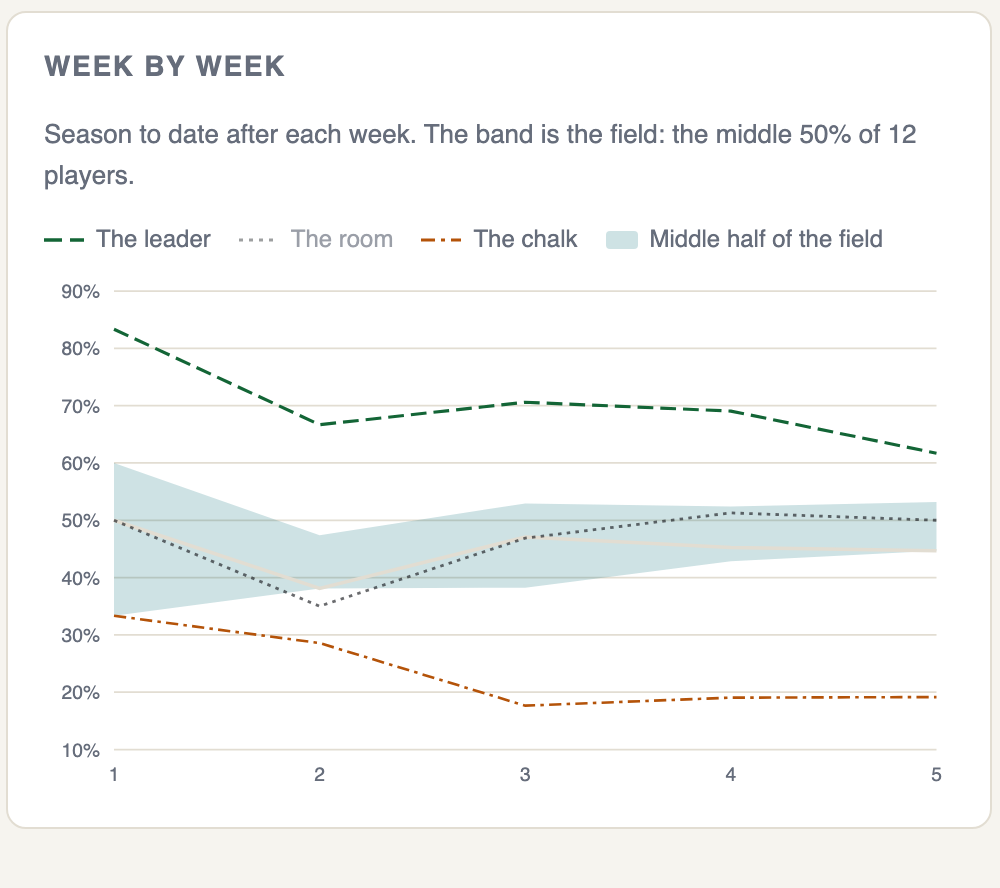
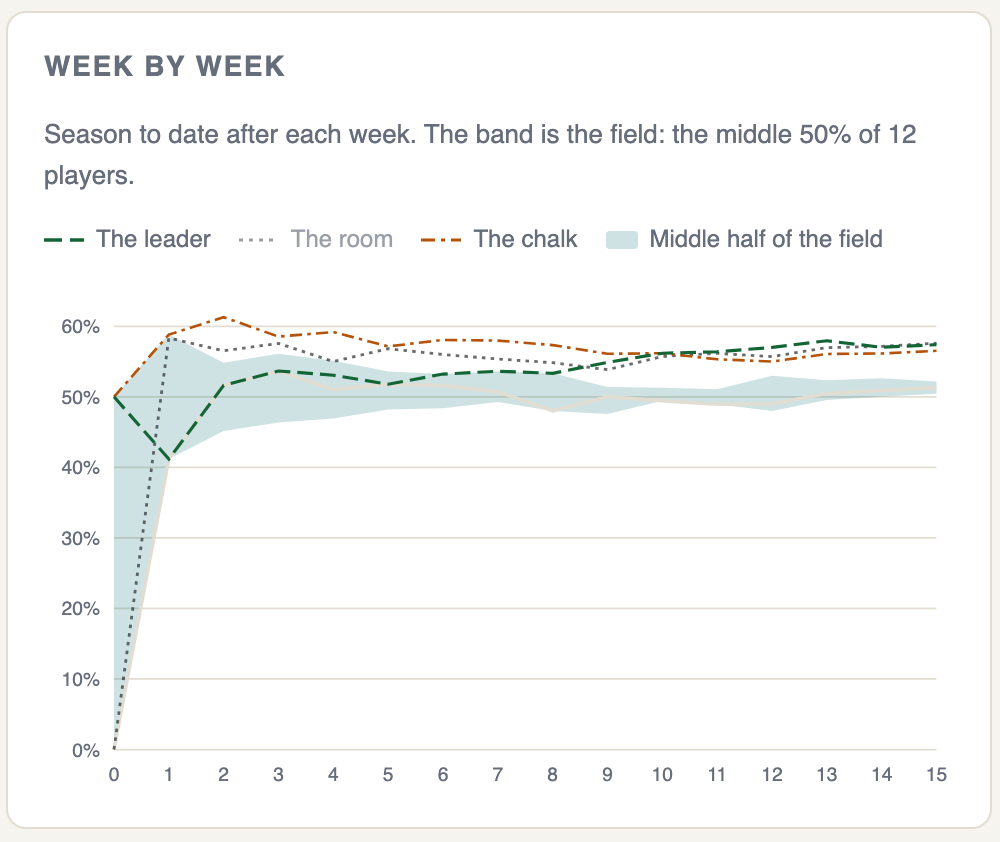
Shoot the teaser against a season that happened
The three pictures on the Coming Soon page are the whole argument it makes,
and two of them were arguing against it.

The slate was shot from seed-local.py: six games, all on a Tuesday, all at
three minutes past the hour, locking tomorrow. The board was shot from the
same seeder's invented finals, where the chalk went 19% and the room beat it
by thirty points — a thing that does not happen in football, and that anyone
who follows it reads instantly. Screenshots on a coming-soon page are the
evidence for every claim next to them; visibly fake ones are worse than none.

The slate is now the real 2026 week one — fifteen games, six with a line,
Colorado at Georgia Tech on the Thursday — which was available the whole time.

The board and the chart cannot be shot from real players, because there are
none yet, so they are shot from the real 2025 season instead: the committed
games, the committed closing lines, the real finals, graded by the real
scoring path. Twelve invented players read the number and lean on the
favourite by a trait that varies from 38% to 86%, and everything else follows.
The chalk on that board is the actual 2025 chalk, 56.5%. The names are the
only invented thing left.

Two defects the honest data exposed, both in the week-by-week chart:

  The axis made room for a band it never draws. Below twenty players the
  10th-to-90th area is deliberately not painted — with twelve players a decile
[…]

diff --git a/tiebreaker/site_pools/soon.html b/tiebreaker/site_pools/soon.html
@@ -450,16 +450,16 @@ tr.moved.down td { animation:flashdown 900ms ease-out }
 
 <div class=card>
   <div class=soonhero>
-    <span class=soonkick>Coming soon</span>
+    <span class=soonkick>Opens August 19</span>
     <h2>Pick every Big 12 game against the spread.</h2>
     <p>One line for everyone, frozen the moment the week is published. The
     whole slate locks at the first kickoff, and what you picked becomes public
     then &mdash; not before.</p>
-    <p class=soonwhen>Week one kicks off <b>Saturday, August 29</b>.</p>
+    <p class=soonwhen>Sign in from <b>Wednesday, August 19</b>. The first slate locks with the season opener, <b>Saturday, August 29</b>.</p>
   </div>
 </div>
 
-<div class=soonrow><figure class=soonshot><img src="shots/slate.png" width=1008 height=330 loading="lazy" decoding="async" alt="The Slate, from the pick&rsquo;em under construction."><figcaption><b>The Slate.</b> Every Big 12 game, one frozen line, and a clock. Pick a side and it saves as you go &mdash; there is no submit button to forget.</figcaption></figure><figure class=soonshot><img src="shots/chart.png" width=500 height=444 loading="lazy" decoding="async" alt="Week by week, from the pick&rsquo;em under construction."><figcaption><b>Week by week.</b> Your season against the shape of the field, drawn in your team's colours. <b>The chalk</b> is what taking every favourite would have scored, and it is harder to beat than it sounds.</figcaption></figure><figure class=soonshot><img src="shots/room.png" width=1008 height=209 loading="lazy" decoding="async" alt="The room, from the pick&rsquo;em under construction."><figcaption><b>The room.</b> What everybody else picked, on every game, scored as if one person had made all of it. Beating the field is one thing; beating the field put together is another.</figcaption></figure></div>
+<div class=soonrow><figure class=soonshot><img src="shots/slate.png" width=1008 height=312 loading="lazy" decoding="async" alt="The Slate, from the pick&rsquo;em under construction."><figcaption><b>The Slate.</b> Every Big 12 game, one frozen line, and a clock. Pick a side and it saves as you go &mdash; there is no submit button to forget.</figcaption></figure><figure class=soonshot><img src="shots/chart.png" width=500 height=444 loading="lazy" decoding="async" alt="Week by week, from the pick&rsquo;em under construction."><figcaption><b>Week by week.</b> Your season against the shape of the field, drawn in your team's colours. <b>The chalk</b> is what taking every favourite would have scored, and it is harder to beat than it sounds.</figcaption></figure><figure class=soonshot><img src="shots/room.png" width=1008 height=209 loading="lazy" decoding="async" alt="The room, from the pick&rsquo;em under construction."><figcaption><b>The room.</b> What everybody else picked, on every game, scored as if one person had made all of it. Beating the field is one thing; beating the field put together is another.</figcaption></figure></div>
 
 <div class=card>
   <h2>What makes it different</h2>

diff --git a/tiebreaker/site_pools/app.js b/tiebreaker/site_pools/app.js
@@ -1023,9 +1023,27 @@
     // half-width card put the axis labels at about seven pixels. At 520 the
     // box is drawn near 1:1 and 11px stays 11px.
     var W = 520, H = 300, L = 40, R = 10, T = 12, B = 26;
+
+    // A decile needs a field to be a decile of. With twelve players the
+    // "90th percentile" is the second-best player and the "10th" is the
+    // second-worst — one person each, drawn as though they were a
+    // distribution, and sitting exactly under the leader's line because the
+    // leader IS the player next to them. Below the floor only the quartiles
+    // are drawn, which are still three players in from each end.
+    //
+    // Decided BEFORE the axis, not after, because the axis has to be scaled
+    // to what is drawn. Including p10 and p90 unconditionally reserved room
+    // for a band that was never painted: a small pool whose worst player had
+    // a bad opening week got a plot squashed into its top third to make space
+    // for white.
+    var f = h.field || [];
+    var wide = f.length > 1 && f.every(function (r) { return r.n >= MIN_BAND; });
+
     var lo = 100, hi = 0;
     var all = [];
-    (h.field || []).forEach(function (f) { all.push(f.p10, f.p90); });
+    f.forEach(function (r) {
+      if (wide) { all.push(r.p10, r.p90); } else { all.push(r.p25, r.p75); }
+    });
     [h.you, h.room, h.chalk,
      h.leader && h.leader.rows].forEach(function (rows) {
       (rows || []).forEach(function (r) { all.push(r.pct); });
@@ -1095,14 +1113,6 @@
       svg.appendChild(t);
     });
 
-    var f = h.field || [];
-    // A decile needs a field to be a decile of. With twelve players the
-    // "90th percentile" is the second-best player and the "10th" is the
-    // second-worst — one person each, drawn as though they were a
-    // distribution, and sitting exactly under the leader's line because the
-    // leader IS the player next to them. Below the floor only the quartiles
-    // are drawn, which are still three players in from each end.
-    var wide = f.length > 1 && f.every(function (r) { return r.n >= MIN_BAND; });
     if (f.length > 1) {
       if (wide) {
         svg.appendChild(sv("path", {d: area(f, f, "p90", "p10"),
@@ -1270,7 +1280,13 @@
     box.appendChild(svg);
     box.appendChild(tip);
     if (note) {
-      var n = f.length ? f[f.length - 1].n : 0;
+      // The largest the field ever was, not the last week's. Somebody who
+      // misses the final week drops out of that week's percentiles, and
+      // reading the count off the end made a twelve-player pool describe
+      // itself as eleven — on a sentence whose whole job is to say how many
+      // people the band is drawn from.
+      var n = 0;
+      f.forEach(function (r) { if (r.n > n) n = r.n; });
       note.textContent = "Season to date after each week. The band is the "
         + "field: the middle 50% of " + n + " player" + (n === 1 ? "" : "s")
         + (wide ? ", and lighter behind it the 10th to 90th." : ".");

diff --git a/tiebreaker/site_pools/pickem/board.html b/tiebreaker/site_pools/pickem/board.html
@@ -399,7 +399,7 @@ tr.moved.down td { animation:flashdown 900ms ease-out }
 .bumpwrap .bteam:hover { opacity:1 }
 .bumpwrap .bteam:hover polyline { stroke-width:3.6 }
 </style>
-<script defer src="../../tiebreaker/scrollcue.js?v=5fef00f1"></script><link rel=stylesheet href="../styles.css?v=794ec8de"><script defer src="../../tiebreaker/pct.js?v=03186563"></script><script defer src="../app.js?v=61151855"></script></head><body>
+<script defer src="../../tiebreaker/scrollcue.js?v=5fef00f1"></script><link rel=stylesheet href="../styles.css?v=794ec8de"><script defer src="../../tiebreaker/pct.js?v=03186563"></script><script defer src="../app.js?v=ebbd92de"></script></head><body>
 <a class=skip-link href="#main">Skip to content</a>
 <nav class=b12-topbar><a class=b12-brand href="/" aria-label="Big12ology home"><picture><source srcset="../../tiebreaker/brand/big12ology-compact-dark.svg" media="(prefers-color-scheme: dark)"><img src="../../tiebreaker/brand/big12ology-compact-dark.svg" alt="Big12ology"></picture></a><a href="/tiebreaker/">Tiebreaker</a><a href="/schedule/">Schedule</a><a href="/attendance/">Attendance</a><a class=on href="/pools/">Pools</a><span class=b12-right><span class=b12-acct hidden></span><span class=b12-theme></span></span></nav>
 <header class=b12-head>

diff --git a/tiebreaker/site_pools/pickem/card.html b/tiebreaker/site_pools/pickem/card.html
@@ -389,7 +389,7 @@ tr.moved.down td { animation:flashdown 900ms ease-out }
 .bumpwrap .bteam:hover { opacity:1 }
 .bumpwrap .bteam:hover polyline { stroke-width:3.6 }
 </style>
-<script defer src="../../tiebreaker/scrollcue.js?v=5fef00f1"></script><link rel=stylesheet href="../styles.css?v=794ec8de"><script defer src="../../tiebreaker/pct.js?v=03186563"></script><script defer src="../app.js?v=61151855"></script></head><body>
+<script defer src="../../tiebreaker/scrollcue.js?v=5fef00f1"></script><link rel=stylesheet href="../styles.css?v=794ec8de"><script defer src="../../tiebreaker/pct.js?v=03186563"></script><script defer src="../app.js?v=ebbd92de"></script></head><body>
 <a class=skip-link href="#main">Skip to content</a>
 <nav class=b12-topbar><a class=b12-brand href="/" aria-label="Big12ology home"><picture><source srcset="../../tiebreaker/brand/big12ology-compact-dark.svg" media="(prefers-color-scheme: dark)"><img src="../../tiebreaker/brand/big12ology-compact-dark.svg" alt="Big12ology"></picture></a><a href="/tiebreaker/">Tiebreaker</a><a href="/schedule/">Schedule</a><a href="/attendance/">Attendance</a><a class=on href="/pools/">Pools</a><span class=b12-right><span class=b12-acct hidden></span><span class=b12-theme></span></span></nav>
 <header class=b12-head>

diff --git a/tiebreaker/site_pools/pickem/index.html b/tiebreaker/site_pools/pickem/index.html
@@ -399,7 +399,7 @@ tr.moved.down td { animation:flashdown 900ms ease-out }
 .bumpwrap .bteam:hover { opacity:1 }
 .bumpwrap .bteam:hover polyline { stroke-width:3.6 }
 </style>
-<script defer src="../../tiebreaker/scrollcue.js?v=5fef00f1"></script><link rel=stylesheet href="../styles.css?v=794ec8de"><script defer src="../../tiebreaker/pct.js?v=03186563"></script><script defer src="../app.js?v=61151855"></script></head><body>
+<script defer src="../../tiebreaker/scrollcue.js?v=5fef00f1"></script><link rel=stylesheet href="../styles.css?v=794ec8de"><script defer src="../../tiebreaker/pct.js?v=03186563"></script><script defer src="../app.js?v=ebbd92de"></script></head><body>
 <a class=skip-link href="#main">Skip to content</a>
 <nav class=b12-topbar><a class=b12-brand href="/" aria-label="Big12ology home"><picture><source srcset="../../tiebreaker/brand/big12ology-compact-dark.svg" media="(prefers-color-scheme: dark)"><img src="../../tiebreaker/brand/big12ology-compact-dark.svg" alt="Big12ology"></picture></a><a href="/tiebreaker/">Tiebreaker</a><a href="/schedule/">Schedule</a><a href="/attendance/">Attendance</a><a class=on href="/pools/">Pools</a><span class=b12-right><span class=b12-acct hidden></span><span class=b12-theme></span></span></nav>
 <header class=b12-head>

diff --git a/tiebreaker/site_pools/pickem/rules.html b/tiebreaker/site_pools/pickem/rules.html
@@ -399,7 +399,7 @@ tr.moved.down td { animation:flashdown 900ms ease-out }
 .bumpwrap .bteam:hover { opacity:1 }
 .bumpwrap .bteam:hover polyline { stroke-width:3.6 }
 </style>
-<script defer src="../../tiebreaker/scrollcue.js?v=5fef00f1"></script><link rel=stylesheet href="../styles.css?v=794ec8de"><script defer src="../../tiebreaker/pct.js?v=03186563"></script><script defer src="../app.js?v=61151855"></script></head><body>
+<script defer src="../../tiebreaker/scrollcue.js?v=5fef00f1"></script><link rel=stylesheet href="../styles.css?v=794ec8de"><script defer src="../../tiebreaker/pct.js?v=03186563"></script><script defer src="../app.js?v=ebbd92de"></script></head><body>
 <a class=skip-link href="#main">Skip to content</a>
 <nav class=b12-topbar><a class=b12-brand href="/" aria-label="Big12ology home"><picture><source srcset="../../tiebreaker/brand/big12ology-compact-dark.svg" media="(prefers-color-scheme: dark)"><img src="../../tiebreaker/brand/big12ology-compact-dark.svg" alt="Big12ology"></picture></a><a href="/tiebreaker/">Tiebreaker</a><a href="/schedule/">Schedule</a><a href="/attendance/">Attendance</a><a class=on href="/pools/">Pools</a><span class=b12-right><span class=b12-acct hidden></span><span class=b12-theme></span></span></nav>
 <header class=b12-head>

diff --git a/tiebreaker/site_pools/survivor/index.html b/tiebreaker/site_pools/survivor/index.html
@@ -399,7 +399,7 @@ tr.moved.down td { animation:flashdown 900ms ease-out }
 .bumpwrap .bteam:hover { opacity:1 }
 .bumpwrap .bteam:hover polyline { stroke-width:3.6 }
 </style>
-<script defer src="../../tiebreaker/scrollcue.js?v=5fef00f1"></script><link rel=stylesheet href="../styles.css?v=794ec8de"><script defer src="../../tiebreaker/pct.js?v=03186563"></script><script defer src="../app.js?v=61151855"></script></head><body>
+<script defer src="../../tiebreaker/scrollcue.js?v=5fef00f1"></script><link rel=stylesheet href="../styles.css?v=794ec8de"><script defer src="../../tiebreaker/pct.js?v=03186563"></script><script defer src="../app.js?v=ebbd92de"></script></head><body>
 <a class=skip-link href="#main">Skip to content</a>
 <nav class=b12-topbar><a class=b12-brand href="/" aria-label="Big12ology home"><picture><source srcset="../../tiebreaker/brand/big12ology-compact-dark.svg" media="(prefers-color-scheme: dark)"><img src="../../tiebreaker/brand/big12ology-compact-dark.svg" alt="Big12ology"></picture></a><a href="/tiebreaker/">Tiebreaker</a><a href="/schedule/">Schedule</a><a href="/attendance/">Attendance</a><a href="/pools/">Pools</a><span class=b12-right><span class=b12-acct hidden></span><span class=b12-theme></span></span></nav>
 <header class=b12-head>

diff --git a/tiebreaker/site_pools/survivor/pool.html b/tiebreaker/site_pools/survivor/pool.html
@@ -399,7 +399,7 @@ tr.moved.down td { animation:flashdown 900ms ease-out }
 .bumpwrap .bteam:hover { opacity:1 }
 .bumpwrap .bteam:hover polyline { stroke-width:3.6 }
 </style>
-<script defer src="../../tiebreaker/scrollcue.js?v=5fef00f1"></script><link rel=stylesheet href="../styles.css?v=794ec8de"><script defer src="../../tiebreaker/pct.js?v=03186563"></script><script defer src="../app.js?v=61151855"></script></head><body>
+<script defer src="../../tiebreaker/scrollcue.js?v=5fef00f1"></script><link rel=stylesheet href="../styles.css?v=794ec8de"><script defer src="../../tiebreaker/pct.js?v=03186563"></script><script defer src="../app.js?v=ebbd92de"></script></head><body>
 <a class=skip-link href="#main">Skip to content</a>
 <nav class=b12-topbar><a class=b12-brand href="/" aria-label="Big12ology home"><picture><source srcset="../../tiebreaker/brand/big12ology-compact-dark.svg" media="(prefers-color-scheme: dark)"><img src="../../tiebreaker/brand/big12ology-compact-dark.svg" alt="Big12ology"></picture></a><a href="/tiebreaker/">Tiebreaker</a><a href="/schedule/">Schedule</a><a href="/attendance/">Attendance</a><a href="/pools/">Pools</a><span class=b12-right><span class=b12-acct hidden></span><span class=b12-theme></span></span></nav>
 <header class=b12-head>

diff --git a/tiebreaker/site_pools/survivor/rules.html b/tiebreaker/site_pools/survivor/rules.html
@@ -399,7 +399,7 @@ tr.moved.down td { animation:flashdown 900ms ease-out }
 .bumpwrap .bteam:hover { opacity:1 }
 .bumpwrap .bteam:hover polyline { stroke-width:3.6 }
 </style>
-<script defer src="../../tiebreaker/scrollcue.js?v=5fef00f1"></script><link rel=stylesheet href="../styles.css?v=794ec8de"><script defer src="../../tiebreaker/pct.js?v=03186563"></script><script defer src="../app.js?v=61151855"></script></head><body>
+<script defer src="../../tiebreaker/scrollcue.js?v=5fef00f1"></script><link rel=stylesheet href="../styles.css?v=794ec8de"><script defer src="../../tiebreaker/pct.js?v=03186563"></script><script defer src="../app.js?v=ebbd92de"></script></head><body>
 <a class=skip-link href="#main">Skip to content</a>
 <nav class=b12-topbar><a class=b12-brand href="/" aria-label="Big12ology home"><picture><source srcset="../../tiebreaker/brand/big12ology-compact-dark.svg" media="(prefers-color-scheme: dark)"><img src="../../tiebreaker/brand/big12ology-compact-dark.svg" alt="Big12ology"></picture></a><a href="/tiebreaker/">Tiebreaker</a><a href="/schedule/">Schedule</a><a href="/attendance/">Attendance</a><a href="/pools/">Pools</a><span class=b12-right><span class=b12-acct hidden></span><span class=b12-theme></span></span></nav>
 <header class=b12-head>

diff --git a/tiebreaker/site_pools/account.html b/tiebreaker/site_pools/account.html
@@ -389,7 +389,7 @@ tr.moved.down td { animation:flashdown 900ms ease-out }
 .bumpwrap .bteam:hover { opacity:1 }
 .bumpwrap .bteam:hover polyline { stroke-width:3.6 }
 </style>
-<script defer src="../tiebreaker/scrollcue.js?v=5fef00f1"></script><link rel=stylesheet href="styles.css?v=794ec8de"><script defer src="../tiebreaker/pct.js?v=03186563"></script><script defer src="app.js?v=61151855"></script></head><body>
+<script defer src="../tiebreaker/scrollcue.js?v=5fef00f1"></script><link rel=stylesheet href="styles.css?v=794ec8de"><script defer src="../tiebreaker/pct.js?v=03186563"></script><script defer src="app.js?v=ebbd92de"></script></head><body>
 <a class=skip-link href="#main">Skip to content</a>
 <nav class=b12-topbar><a class=b12-brand href="/" aria-label="Big12ology home"><picture><source srcset="../tiebreaker/brand/big12ology-compact-dark.svg" media="(prefers-color-scheme: dark)"><img src="../tiebreaker/brand/big12ology-compact-dark.svg" alt="Big12ology"></picture></a><a href="/tiebreaker/">Tiebreaker</a><a href="/schedule/">Schedule</a><a href="/attendance/">Attendance</a><a class=on href="/pools/">Pools</a><span class=b12-right><span class=b12-acct hidden></span><span class=b12-theme></span></span></nav>
 <header class=b12-head>

diff --git a/tiebreaker/site_pools/index.html b/tiebreaker/site_pools/index.html
@@ -407,7 +407,7 @@ tr.moved.down td { animation:flashdown 900ms ease-out }
   .poolcard:hover { border-color:var(--accent) }
   .poolcard p { margin:0 0 8px }
   .poolcard p:last-child { margin:0 }
-</style><script defer src="app.js?v=61151855"></script></head><body>
+</style><script defer src="app.js?v=ebbd92de"></script></head><body>
 <a class=skip-link href="#main">Skip to content</a>
 <nav class=b12-topbar><a class=b12-brand href="/" aria-label="Big12ology home"><picture><source srcset="../tiebreaker/brand/big12ology-compact-dark.svg" media="(prefers-color-scheme: dark)"><img src="../tiebreaker/brand/big12ology-compact-dark.svg" alt="Big12ology"></picture></a><a href="/tiebreaker/">Tiebreaker</a><a href="/schedule/">Schedule</a><a href="/attendance/">Attendance</a><a class=on href="/pools/">Pools</a><span class=b12-right><span class=b12-acct hidden></span><span class=b12-theme></span></span></nav>
 <header class=b12-head>

diff --git a/tiebreaker/build.py b/tiebreaker/build.py
@@ -78,6 +78,14 @@ SURVIVOR_RANKED_BY = 6
 
 POOLS_UP = "../"          # from /pools/x/ back up to /pools/
 
+# The day the pools open. Only the teaser at /pools/ reads it — nothing gates
+# on it, because the gate is which pages assemble.sh publishes, and that is a
+# decision a person makes rather than a clock. It is a date and not a
+# datetime for the same reason the site never prints a deadline without a
+# timezone: "Wednesday" is a promise anyone can keep, and 9am somewhere is
+# not.
+POOLS_OPEN = datetime.date(2026, 8, 19)
+
 # team -> logo file key (assets in site/logos/, sourced from Wikimedia; BYU is png)
 TEAM_KEY = {
     "Arizona": "ariz", "Arizona State": "asu", "Baylor": "bay", "BYU": "byu",
@@ -4614,15 +4622,23 @@ def build_pools_soon(year, games):
     prev, BASE = BASE, "../tiebreaker/"
     os.makedirs(POOLS_SITE, exist_ok=True)
 
+    # Two dates, and they are not the same one. The doors open a fortnight
+    # before there is anything to pick, which is deliberate: an account and a
+    # display name are the two things nobody wants to be doing at 4:55 on the
+    # Thursday the first slate locks.
+    # The eyebrow carries the opening date, so this sentence carries the other
+    # one. It deliberately does not say "week one": the pool numbers a week
+    # zero, and the first kickoff of the season is in it.
     opener = season_opener(games)
-    when = (f"Week one kicks off <b>"
+    when = (f"Sign in from <b>{POOLS_OPEN.strftime('%A, %B %-d')}</b>. The "
+            f"first slate locks with the season opener, <b>"
             f"{opener.strftime('%A, %B %-d')}</b>." if opener else
-            "Opening with the 2026 season.")
+            f"Sign in from <b>{POOLS_OPEN.strftime('%A, %B %-d')}</b>.")
 
     # Real screenshots of the running build, with their real dimensions, so
     # the browser reserves the right space and nothing jumps as they load.
     shots = [
-        ("slate", 1008, 330, "The Slate",
+        ("slate", 1008, 312, "The Slate",
          "Every Big 12 game, one frozen line, and a clock. Pick a side and it "
          "saves as you go &mdash; there is no submit button to forget."),
         ("chart", 500, 444, "Week by week",
@@ -4644,7 +4660,7 @@ def build_pools_soon(year, games):
     body = f"""
 <div class=card>
   <div class=soonhero>
-    <span class=soonkick>Coming soon</span>
+    <span class=soonkick>Opens {POOLS_OPEN.strftime('%B %-d')}</span>
     <h2>Pick every Big 12 game against the spread.</h2>
     <p>One line for everyone, frozen the moment the week is published. The
     whole slate locks at the first kickoff, and what you picked becomes public
